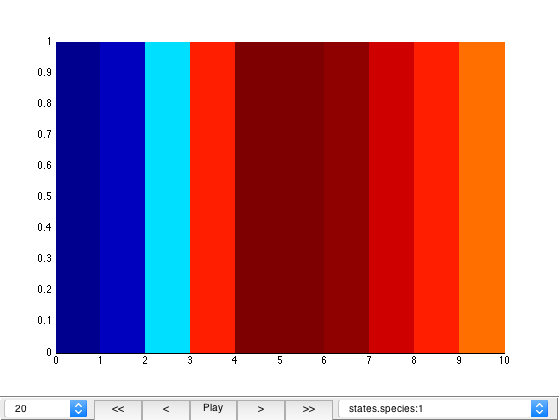
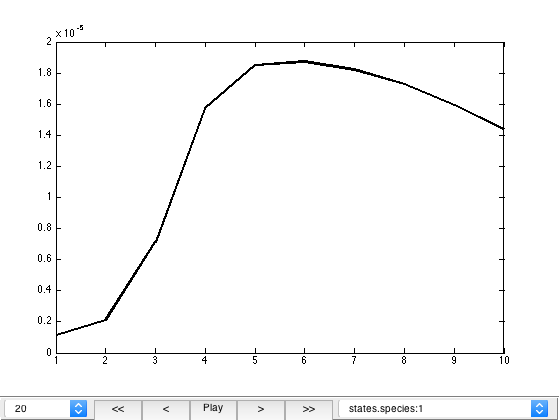
update to examples

diff --git a/examples/transport/html/SurfaceSystemTransport.html b/examples/transport/html/SurfaceSystemTransport.html
@@ -6,7 +6,7 @@
    <!--
 This HTML was auto-generated from MATLAB code.
 To make changes, update the MATLAB code and republish this document.
-      --><title>SurfaceSystemTransport</title><meta name="generator" content="MATLAB 8.2"><link rel="schema.DC" href="http://purl.org/dc/elements/1.1/"><meta name="DC.date" content="2017-12-04"><meta name="DC.source" content="SurfaceSystemTransport.m"><style type="text/css">
+      --><title>surfaceSystemTransport</title><meta name="generator" content="MATLAB 8.2"><link rel="schema.DC" href="http://purl.org/dc/elements/1.1/"><meta name="DC.date" content="2017-12-05"><meta name="DC.source" content="surfaceSystemTransport.m"><style type="text/css">
 html,body,div,span,applet,object,iframe,h1,h2,h3,h4,h5,h6,p,blockquote,pre,a,abbr,acronym,address,big,cite,code,del,dfn,em,font,img,ins,kbd,q,s,samp,small,strike,strong,sub,sup,tt,var,b,u,i,center,dl,dt,dd,ol,ul,li,fieldset,form,label,legend,table,caption,tbody,tfoot,thead,tr,th,td{margin:0;padding:0;border:0;outline:0;font-size:100%;vertical-align:baseline;background:transparent}body{line-height:1}ol,ul{list-style:none}blockquote,q{quotes:none}blockquote:before,blockquote:after,q:before,q:after{content:'';content:none}:focus{outine:0}ins{text-decoration:none}del{text-decoration:line-through}table{border-collapse:collapse;border-spacing:0}
 
 html { min-height:100%; margin-bottom:1px; }
@@ -65,13 +65,13 @@ table td { padding:7px 5px; text-align:left; vertical-align:top; border:1px soli
 
 
 
-  </style></head><body><div class="content"><h2>Contents</h2><div><ul><li><a href="#2">Define the grid</a></li><li><a href="#3">Define the rock</a></li><li><a href="#4">Define the fluid</a></li><li><a href="#5">Define the chemistry</a></li><li><a href="#6">Define the initial state</a></li><li><a href="#7">Define the transport model</a></li><li><a href="#8">Define the boundary conditions</a></li><li><a href="#9">Define the schedule</a></li><li><a href="#10">Run the simulation</a></li><li><a href="#11">visualize the simulation</a></li><li><a href="#12">Copyright notice</a></li></ul></div><pre class="codeinput">close <span class="string">all</span>;
+  </style></head><body><div class="content"><h2>Contents</h2><div><ul><li><a href="#2">Define the grid</a></li><li><a href="#3">Define the rock</a></li><li><a href="#4">Define the fluid</a></li><li><a href="#5">Define the chemistry</a></li><li><a href="#6">solve for the initial state</a></li><li><a href="#7">Define the transport model</a></li><li><a href="#8">Define the boundary conditions</a></li><li><a href="#9">Define the schedule</a></li><li><a href="#10">Run the simulation</a></li><li><a href="#11">visualize the simulation</a></li><li><a href="#12">Copyright notice</a></li></ul></div><pre class="codeinput">close <span class="string">all</span>;
 clear;
 
 mrstModule <span class="string">add</span> <span class="string">ad-core</span> <span class="string">ad-props</span> <span class="string">ad-blackoil</span> <span class="string">geochemistry</span>
 
 mrstVerbose <span class="string">off</span>
-</pre><h2>Define the grid<a name="2"></a></h2><pre class="codeinput">G = cartGrid([10, 1, 1], [10, 1, 1]);
+</pre><h2>Define the grid<a name="2"></a></h2><p>here we define a 1D domain with 10 cells, each a meter in length</p><pre class="codeinput">G = cartGrid([10, 1, 1], [10, 1, 1]);
 G = computeGeometry(G);
 nc = G.cells.num;
 </pre><h2>Define the rock<a name="3"></a></h2><pre class="codeinput">rock.perm = 1*darcy*ones(G.cells.num, 1);
@@ -80,7 +80,7 @@ rock.poro = ones(G.cells.num, 1);
 fluid = initSimpleADIFluid(<span class="string">'phases'</span>, <span class="string">'W'</span>, <span class="string">'mu'</span>, 1*centi*poise, <span class="string">'rho'</span>, <span class="keyword">...</span>
                            1000*kilogram/meter^3, <span class="string">'c'</span>, 1e-10, <span class="string">'cR'</span>, 4e-10, <span class="keyword">...</span>
                            <span class="string">'pRef'</span>, pRef);
-</pre><h2>Define the chemistry<a name="5"></a></h2><pre class="codeinput">elements = {<span class="string">'O'</span>, <span class="string">'H'</span>, <span class="string">'Na*'</span>,<span class="string">'Cl*'</span>};
+</pre><h2>Define the chemistry<a name="5"></a></h2><p>the chemical system include the speciation of NaCl and H2O, as well as a reactive silica surface which can have a negative or neutral surface</p><pre class="codeinput">elements = {<span class="string">'O'</span>, <span class="string">'H'</span>, <span class="string">'Na*'</span>,<span class="string">'Cl*'</span>};
 
 species = {<span class="string">'H+*'</span>, <span class="string">'OH-'</span>, <span class="string">'Na+'</span>, <span class="string">'H2O*'</span>, <span class="string">'&gt;SiO-'</span>, <span class="string">'&gt;SiOH'</span>, <span class="string">'NaCl'</span>,<span class="string">'Cl-'</span>};
 
@@ -98,24 +98,6 @@ chemModel = ChemicalModel(elements, species, reactions, <span class="string">'su
 
 <span class="comment">% print the chemical model to the screen</span>
 chemModel.printChemicalSystem;
-
-<span class="comment">% initial chemistry</span>
-Nai = 1e-3;
-Cli = Nai;
-Hi = 1e-9;
-H2Oi = 1;
-
-inputConstraints = [Nai Cli Hi H2Oi]*mol/litre;
-[initchemstate, initreport]= chemModel.initState(repmat(inputConstraints, nc,1), <span class="string">'charge'</span>, <span class="string">'Cl'</span>);
-
-<span class="comment">% injected chemistry</span>
-Naf = 1e-1;
-Clf = Nai;
-Hf = 1e-9;
-H2Of = 1;
-
-inputConstraints = [Naf Clf Hf H2Of]*mol/litre;
-[injchemstate, injreport] = chemModel.initState(inputConstraints, <span class="string">'charge'</span>, <span class="string">'Cl'</span>);
 </pre><pre class="codeoutput">
 ================================================================================================================================================================
 |Equations      |          H+|         OH-|         Na+|         H2O|       &gt;SiO-|       &gt;SiOH|        NaCl|         Cl-| &gt;SiO_ePsi_0| &gt;SiO_ePsi_1| &gt;SiO_ePsi_2|
@@ -131,7 +113,27 @@ inputConstraints = [Naf Clf Hf H2Of]*mol/litre;
 |&gt;SiOH=&gt;SiO-+H+ |           1|           0|           0|           0|           1|          -1|           0|           0|          -1|           0|           0|
 ================================================================================================================================================================
 
-Computing initial guess...
+</pre><h2>solve for the initial state<a name="6"></a></h2><p>the column is originally saturated with a basic solution, an acidic solution is injected on the left boundary</p><pre class="codeinput"><span class="comment">% initial chemistry</span>
+Nai = 1e-3;
+Cli = Nai;
+Hi = 1e-9;
+H2Oi = 1;
+
+inputConstraints = [Nai Cli Hi H2Oi]*mol/litre;
+[initchemstate, initreport]= chemModel.initState(repmat(inputConstraints, nc,1), <span class="string">'charge'</span>, <span class="string">'Cl'</span>);
+
+initState = initchemstate;
+initState.pressure = pRef*ones(nc,1);
+
+<span class="comment">% injected chemistry</span>
+Naf = 1e-1;
+Clf = Nai;
+Hf = 1e-9;
+H2Of = 1;
+
+inputConstraints = [Naf Clf Hf H2Of]*mol/litre;
+[injchemstate, injreport] = chemModel.initState(inputConstraints, <span class="string">'charge'</span>, <span class="string">'Cl'</span>);
+</pre><pre class="codeoutput">Computing initial guess...
 Solving chemical system...
 Solving the chemical system with strict charge balance...
 System is charge balanced to tolerance of 5.000000%...
@@ -141,10 +143,8 @@ Solving the chemical system with strict charge balance...
 Warning: Charge balance not acheived with given inputs, abandoning solution from
 attempt. Try a different element for charge compensation, or increase salt
 content. 
-</pre><h2>Define the initial state<a name="6"></a></h2><pre class="codeinput">initState = initchemstate;
-initState.pressure = pRef*ones(nc,1);
 </pre><h2>Define the transport model<a name="7"></a></h2><pre class="codeinput">model = ChemicalTransportModel(G, rock, fluid, chemModel);
-</pre><h2>Define the boundary conditions<a name="8"></a></h2><pre class="codeinput"><span class="comment">% use model.fluidMat to pull the fluid concentrations from the injected</span>
+</pre><h2>Define the boundary conditions<a name="8"></a></h2><p>here we specify a dirchlet boundary condition for pressure on the right hand side, and a constant flux on the left. The total element concentration at the boundaries must be provided.</p><pre class="codeinput"><span class="comment">% use model.fluidMat to pull the fluid concentrations from the injected</span>
 <span class="comment">% state</span>
 injfluidpart = injchemstate.species*model.fluidMat';
 initfluidpart = initchemstate.species(end,:)*model.fluidMat';
@@ -164,7 +164,7 @@ bc                  = [];
 bc                  = pside(bc, G, <span class="string">'east'</span>, 0*barsa, <span class="string">'sat'</span>, 1);
 bc.elements         = initfluidpart;        <span class="comment">% (will not be used if outflow)</span>
 bc.logElements      = log(initfluidpart);  <span class="comment">% (will not be used if outflow)</span>
-</pre><h2>Define the schedule<a name="9"></a></h2><pre class="codeinput"><span class="comment">% ten time steps of 0.01 days followed by 100 steps of 1 day</span>
+</pre><h2>Define the schedule<a name="9"></a></h2><p>it is recommened to ramp up the time stepping</p><pre class="codeinput"><span class="comment">% ten time steps of 0.01 days followed by 100 steps of 1 day</span>
 schedule.step.val = [0.01*day*ones(10, 1); 1*day*ones(10, 1);];
 schedule.step.control = ones(numel(schedule.step.val), 1);
 schedule.control = struct(<span class="string">'bc'</span>, bc, <span class="string">'src'</span>, src, <span class="string">'W'</span>, []);
@@ -189,9 +189,9 @@ Solving timestep 17/20: 6 Days, 2 Hours, 1440.00 Seconds  -&gt; 7 Days, 2 Hours,
 Solving timestep 18/20: 7 Days, 2 Hours, 1440.00 Seconds  -&gt; 8 Days, 2 Hours, 1440.00 Seconds
 Solving timestep 19/20: 8 Days, 2 Hours, 1440.00 Seconds  -&gt; 9 Days, 2 Hours, 1440.00 Seconds
 Solving timestep 20/20: 9 Days, 2 Hours, 1440.00 Seconds  -&gt; 10 Days, 2 Hours, 1440.00 Seconds
-*** Simulation complete. Solved 20 control steps in 14 Seconds, 503 Milliseconds ***
-</pre><h2>visualize the simulation<a name="11"></a></h2><pre class="codeinput">plotToolbar(G, states, <span class="string">'field'</span>, <span class="string">'species:1'</span>,<span class="string">'startplayback'</span>, true)
-</pre><img vspace="5" hspace="5" src="SurfaceSystemTransport_01.png" alt=""> <h2>Copyright notice<a name="12"></a></h2><p>
+*** Simulation complete. Solved 20 control steps in 14 Seconds, 751 Milliseconds ***
+</pre><h2>visualize the simulation<a name="11"></a></h2><pre class="codeinput">plotToolbar(G, states, <span class="string">'field'</span>, <span class="string">'species:1'</span>,<span class="string">'startplayback'</span>, true,<span class="string">'plot1D'</span>, true)
+</pre><img vspace="5" hspace="5" src="surfaceSystemTransport_01.png" alt=""> <h2>Copyright notice<a name="12"></a></h2><p>
 <p><font size="-1">
 Copyright 2009-2017 SINTEF ICT, Applied Mathematics.
 </font></p>
@@ -225,6 +225,7 @@ mrstModule add ad-core ad-props ad-blackoil geochemistry
 mrstVerbose off
 
 %% Define the grid
+% here we define a 1D domain with 10 cells, each a meter in length
 
 G = cartGrid([10, 1, 1], [10, 1, 1]);
 G = computeGeometry(G);
@@ -242,6 +243,8 @@ fluid = initSimpleADIFluid('phases', 'W', 'mu', 1*centi*poise, 'rho', ...
                            'pRef', pRef);
 
 %% Define the chemistry
+% the chemical system include the speciation of NaCl and H2O, as well as a
+% reactive silica surface which can have a negative or neutral surface
 
 elements = {'O', 'H', 'Na*','Cl*'};
 
@@ -262,6 +265,10 @@ chemModel = ChemicalModel(elements, species, reactions, 'surf', surfaces);
 % print the chemical model to the screen
 chemModel.printChemicalSystem;
 
+%% solve for the initial state
+% the column is originally saturated with a basic solution, an acidic
+% solution is injected on the left boundary
+
 % initial chemistry
 Nai = 1e-3;
 Cli = Nai;
@@ -270,6 +277,9 @@ H2Oi = 1;
 
 inputConstraints = [Nai Cli Hi H2Oi]*mol/litre;
 [initchemstate, initreport]= chemModel.initState(repmat(inputConstraints, nc,1), 'charge', 'Cl');
+
+initState = initchemstate;
+initState.pressure = pRef*ones(nc,1);
 
 % injected chemistry
 Naf = 1e-1;
@@ -280,15 +290,13 @@ H2Of = 1;
 inputConstraints = [Naf Clf Hf H2Of]*mol/litre;
 [injchemstate, injreport] = chemModel.initState(inputConstraints, 'charge', 'Cl');
 
-%% Define the initial state
-
-initState = initchemstate;
-initState.pressure = pRef*ones(nc,1);
-
 %% Define the transport model
 model = ChemicalTransportModel(G, rock, fluid, chemModel);
 
 %% Define the boundary conditions
+% here we specify a dirchlet boundary condition for pressure on the right
+% hand side, and a constant flux on the left. The total element
+% concentration at the boundaries must be provided.
 
 % use model.fluidMat to pull the fluid concentrations from the injected
 % state
@@ -313,6 +321,7 @@ bc.logElements      = log(initfluidpart);  % (will not be used if outflow)
 
 
 %% Define the schedule
+% it is recommened to ramp up the time stepping
 
 % ten time steps of 0.01 days followed by 100 steps of 1 day
 schedule.step.val = [0.01*day*ones(10, 1); 1*day*ones(10, 1);];
@@ -325,7 +334,7 @@ schedule.control = struct('bc', bc, 'src', src, 'W', []);
 [~, states, scheduleReport] = simulateScheduleAD(initState, model, schedule);
 
 %% visualize the simulation
-plotToolbar(G, states, 'field', 'species:1','startplayback', true)
+plotToolbar(G, states, 'field', 'species:1','startplayback', true,'plot1D', true)
 
 %% Copyright notice
 %

diff --git a/examples/transport/SurfaceSystemTransport.m b/examples/transport/SurfaceSystemTransport.m
@@ -6,6 +6,7 @@ mrstModule add ad-core ad-props ad-blackoil geochemistry
 mrstVerbose off
 
 %% Define the grid
+% here we define a 1D domain with 10 cells, each a meter in length
 
 G = cartGrid([10, 1, 1], [10, 1, 1]);
 G = computeGeometry(G);
@@ -23,6 +24,8 @@ fluid = initSimpleADIFluid('phases', 'W', 'mu', 1*centi*poise, 'rho', ...
                            'pRef', pRef);
 
 %% Define the chemistry
+% the chemical system include the speciation of NaCl and H2O, as well as a
+% reactive silica surface which can have a negative or neutral surface
 
 elements = {'O', 'H', 'Na*','Cl*'};
 
@@ -43,6 +46,10 @@ chemModel = ChemicalModel(elements, species, reactions, 'surf', surfaces);
 % print the chemical model to the screen
 chemModel.printChemicalSystem;
 
+%% solve for the initial state
+% the column is originally saturated with a basic solution, an acidic
+% solution is injected on the left boundary
+
 % initial chemistry
 Nai = 1e-3;
 Cli = Nai;
@@ -51,6 +58,9 @@ H2Oi = 1;
 
 inputConstraints = [Nai Cli Hi H2Oi]*mol/litre;
 [initchemstate, initreport]= chemModel.initState(repmat(inputConstraints, nc,1), 'charge', 'Cl');
+
+initState = initchemstate;
+initState.pressure = pRef*ones(nc,1);
 
 % injected chemistry
 Naf = 1e-1;
@@ -61,15 +71,13 @@ H2Of = 1;
 inputConstraints = [Naf Clf Hf H2Of]*mol/litre;
 [injchemstate, injreport] = chemModel.initState(inputConstraints, 'charge', 'Cl');
 
-%% Define the initial state
-
-initState = initchemstate;
-initState.pressure = pRef*ones(nc,1);
-
 %% Define the transport model
 model = ChemicalTransportModel(G, rock, fluid, chemModel);
 
 %% Define the boundary conditions
+% here we specify a dirchlet boundary condition for pressure on the right
+% hand side, and a constant flux on the left. The total element
+% concentration at the boundaries must be provided.
 
 % use model.fluidMat to pull the fluid concentrations from the injected
 % state
@@ -94,6 +102,7 @@ bc.logElements      = log(initfluidpart);  % (will not be used if outflow)
 
 
 %% Define the schedule
+% it is recommened to ramp up the time stepping
 
 % ten time steps of 0.01 days followed by 100 steps of 1 day
 schedule.step.val = [0.01*day*ones(10, 1); 1*day*ones(10, 1);];

diff --git a/examples/transport/injectorProducerArray.m b/examples/transport/injectorProducerArray.m
@@ -6,7 +6,8 @@ mrstModule add ad-core ad-props ad-blackoil geochemistry mrst-gui
 mrstVerbose off
 
 %% Define the domain 
-% here we look at a cartesian grid  with 100 cells
+% here we look at a 2D cartesian grid  with 100 cells
+
 sideLength = 10;
 G = cartGrid([sideLength, sideLength, 1], [sideLength, sideLength, 1]);
 G = computeGeometry(G);
@@ -109,7 +110,6 @@ bc.logElements      = initChemState.logElements(end,:);  % will not used if outf
 schedule.step.val = [0.01*day*ones(5, 1); 0.1*day*ones(5,1); 1*day*ones(5, 1); 5*day*ones(10, 1)];
 schedule.step.control = ones(numel(schedule.step.val), 1);
 schedule.control = struct('bc', bc, 'src', src, 'W', []);
-
 
 %% Run the simulation
 

diff --git a/examples/equilibrium/tripleLayerExample.m b/examples/equilibrium/tripleLayerExample.m
@@ -24,8 +24,8 @@ reactions ={'H2O  = H+  + OH- ',          10^-14*mol/litre, ...
             '>SOH2+ + Cl- = >SOH2Cl',     10^-1.9/(mol/litre)};
         
 % define the surface, here we choose a triple layer model to describe the
-% surface. Outersphere complext like >SONa and >SOH2Cl are defined by
-% giving their charge contributions to the inner and outer helmholtz plane
+% surface. Outersphere complexes like >SONa and >SOH2Cl are defined by
+% defining their charge contributions to the inner and outer helmholtz plane
 
 geometry = [2*site/(nano*meter)^2 50e-3*meter^2/gram 5e3*gram/litre];
 sioInfo = {geometry, 'tlm', [1 0.2]/meter^2,      '>SONa',   [-1 1], '>SOH2Cl',[1 -1]};
